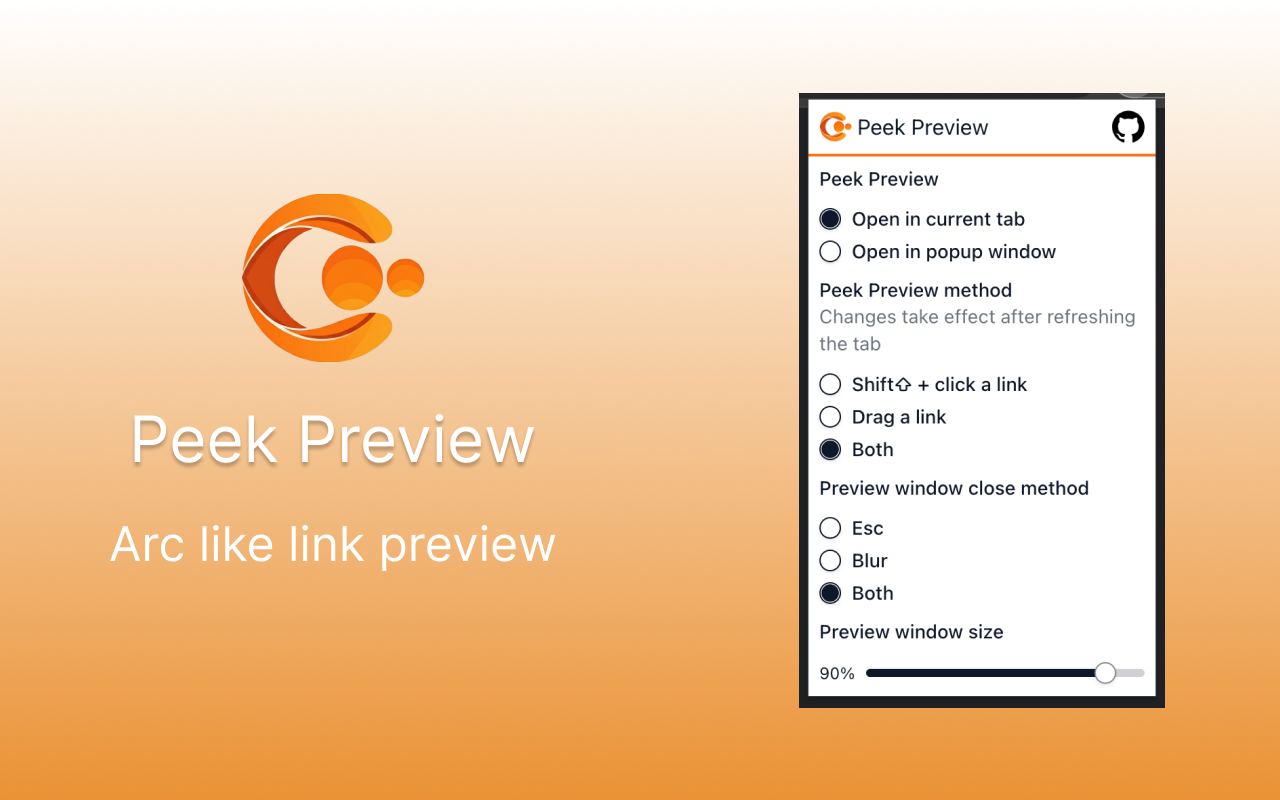
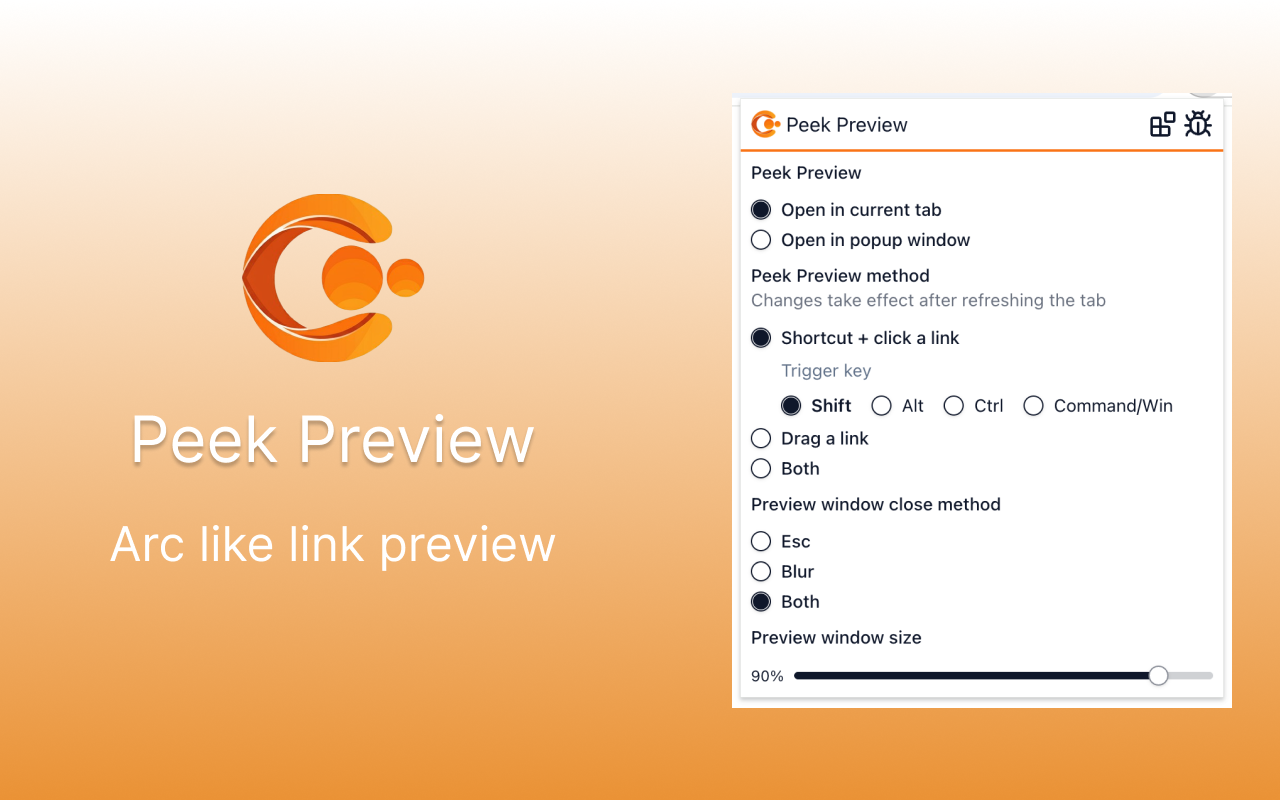
docs: update readme and screeshot

Changed region(s): [[0.5625, 0.0938, 0.9688, 0.9062]]

diff --git a/store/README.md b/store/README.md
@@ -15,8 +15,9 @@ Create by tomowang with ❤ <https://tomo.dev>
 Features:
 
 1. Preview links in current tab or popup window
-2. Use shift⇧ + click link or drag link to open links for peek preview
-3. Press Esc or just blur the preview window to close it
+2. Use shift⇧ + click link to open links for peek preview (support customizable hotkey)
+3. Drag link to open links for peek preview
+4. Press Esc or just blur the preview window to close it
 
 Known issues:
 

diff --git a/README.md b/README.md
@@ -18,7 +18,8 @@ webpage before you open it in a new tab.
 Features:
 
 -   Preview links in current tab or popup window
--   Use shift⇧ + click link or drag link to open links for peek preview
+-   Use shift⇧ + click link to open links for peek preview (support customizable hotkey)
+-   Drag link to open links for peek preview
 -   Press Esc or just blur the preview window to close it
 
 Known issues:
